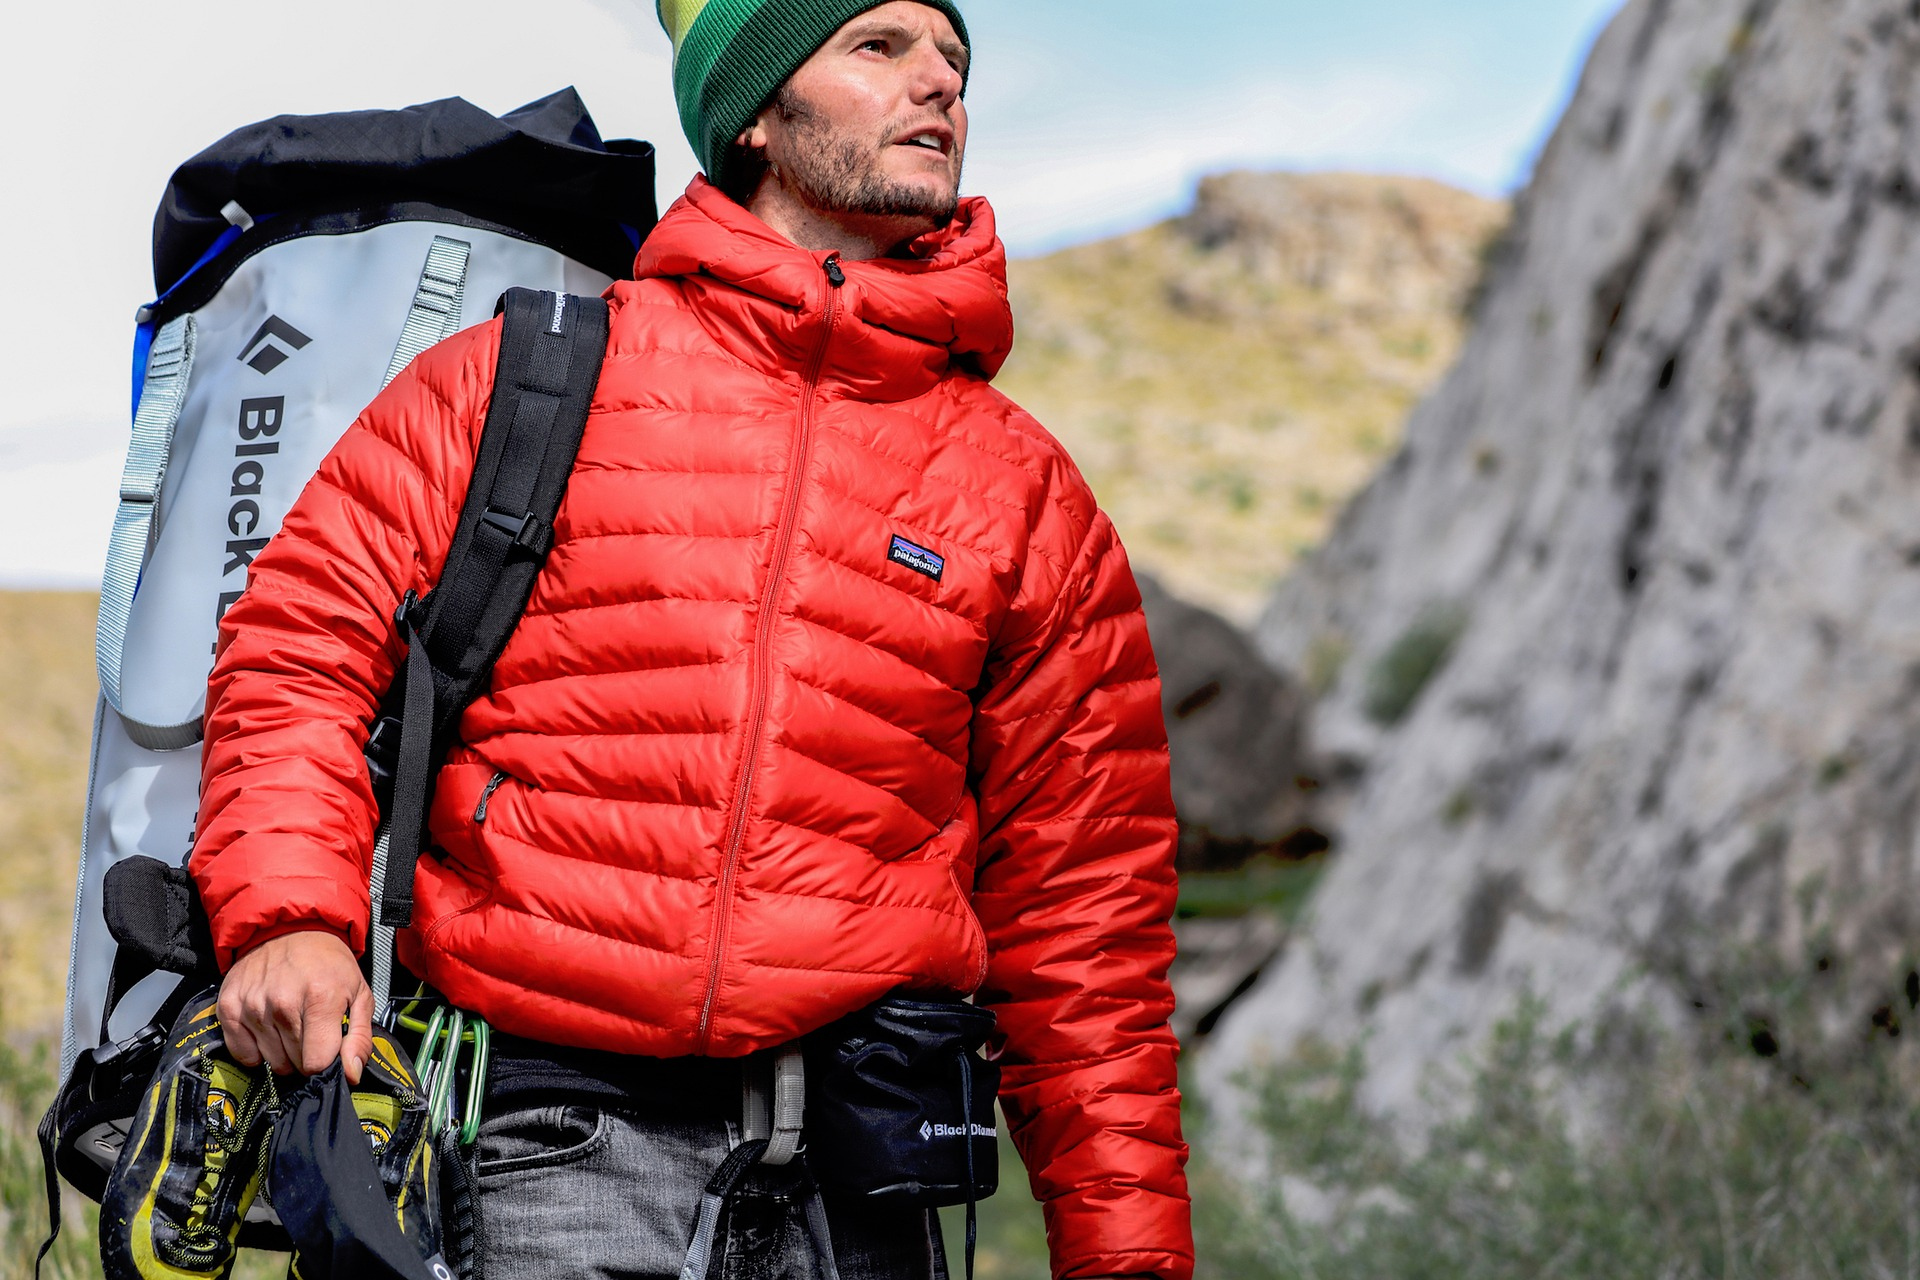
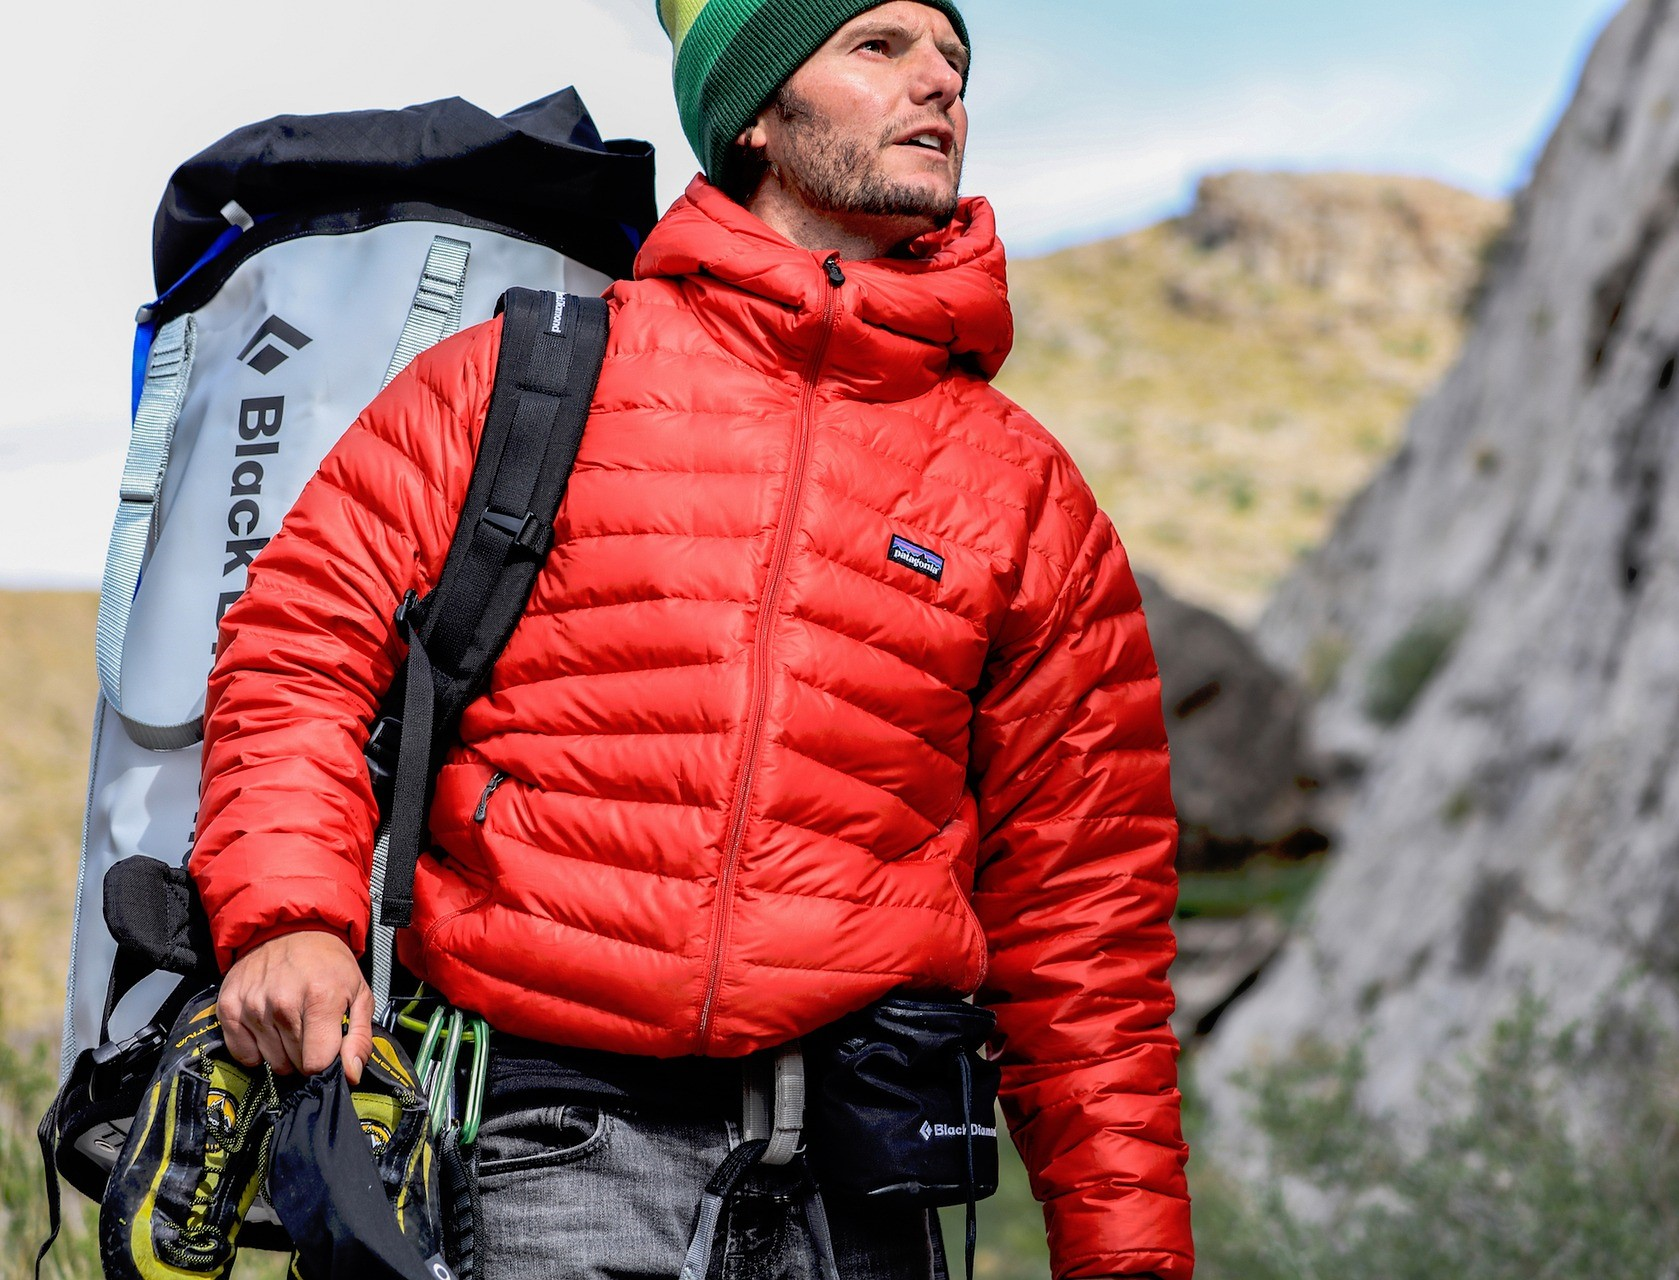
Added style to header and main body
Added style to header and main body

diff --git a/index.html b/index.html
@@ -11,47 +11,59 @@
     <body>
         <header>
             <section class="header-section">
-                <img src="images/RainyDays_Logo.png" alt="rainydays logo" class="logo">
-                <div class="login-wish-cart">
-                    <p>Login</p>
-                    <img src="icons/wish-list.svg" alt="wish list">
-                    <img src="icons/shopping-cart.svg" alt="shopping cart">
+                <div class="logo-container">
+                    <img src="images/RainyDays_Logo.png" alt="rainydays logo" class="logo">
                 </div>
-                <nav class="main-menu">
-                    <ul>
-                        <li><a href="index.html" class="active">Home</a></li>
-                        <li><a href="womens.html">Womens</a></li>
-                        <li><a href="mens.html">Mens</a></li>
-                        <li><a href="new-arrivals.html">New Arrivals</a></li>
-                    </ul>
-                </nav>
-                <div class="search">
-                    <img src="icons/search.svg" alt="search-icon">
-                    <p class="search-area">Search for a product</p>
+                <div class="login-container">
+                    <div class="login-wish-cart">
+                        <p>Login</p>
+                        <img src="icons/wish-list.svg" alt="wish list">
+                        <img src="icons/shopping-cart.svg" alt="shopping cart">
+                    </div>
                 </div>
-                <nav class="about-contact">
-                    <ul>
-                        <li><a href="about.html">About RAINYDAYS</a></li>
-                        <li><a href="contact-us.html">Contact Us</a></li>
-                    </ul>
-                </nav>
+                <div class="menu-about-container">
+                    <nav class="main-menu">
+                        <ul>
+                            <li><a href="index.html" class="active">Home</a></li>
+                            <li><a href="womens.html">Womens</a></li>
+                            <li><a href="mens.html">Mens</a></li>
+                            <li><a href="new-arrivals.html">New Arrivals</a></li>
+                        </ul>
+                    </nav>
+                    <div class="search">
+                        <img src="icons/search.svg" alt="search-icon">
+                        <p class="search-area">Search for a product</p>
+                    </div>
+                    <nav class="about-contact">
+                        <ul>
+                            <li><a href="about.html">About RAINYDAYS</a></li>
+                            <li><a href="contact-us.html">Contact Us</a></li>
+                        </ul>
+                    </nav>
                 <!-- <div class="free-shipping">
                     <p class="free-shipping-text">Free Shipping All Over The World</p>
                     <img src="icons/delivery-truck.svg" alt="delivery truck" class="delivery-truck">
                 </div> -->
+                </div>
             </section>
         </header>
 
-        <main>
-            <img src="images/man_red-jacket_big-image.jpg" alt="red hiking puffer jacket" class="landing-image">
-            <a>Order Now</a>
-            <ul>
-                <li>High Quality</li>
-                <li>Light Weight</li>
-                <li>Breathable</li>
-                <li>Dynamic</li>
-            </ul>
-            <a>Order now and Get 10% Cashback</a>
+        <main class="main-body">
+            <section class="main-body-section">
+                <div>
+                    <img src="images/man_red-jacket_2x.png" alt="red hiking puffer jacket" class="landing-image">
+                    <a href="mens.html" class="landing-cta">Order Now</a>
+                </div>
+                <div>
+                    <ul class="selling-point">
+                        <li>High Quality</li>
+                        <li>Light Weight</li>
+                        <li>Breathable</li>
+                        <li>Dynamic</li>
+                    </ul>
+                    <a href="mens.html" class="link-cta">Order now and Get 10% Cashback</a>
+                </div>
+            </section>
         </main>
 
         <footer>

diff --git a/styles/styles.css b/styles/styles.css
@@ -8,6 +8,9 @@ COLOURS
 #026259 DARK-GREEN
 #707070 DARK-GREY
 #5FB002 GREEN
+#FFFFFF WHITE BACKGROUND
+#2AAF4D HOME CTA BACKGROUND
+#8FC7B8 LANDING IMAGE FILL COLOR
  */
 
 html {
@@ -25,27 +28,39 @@ body {
 /* ------------------------ HEADER STYLES -------------------- */
 
 .header-section {
-  max-width: 1610px;
-  border: black solid;
-  margin: 25px auto;
+  max-width: 1700px;
+  min-width: 1250px;
+  /* position: fixed; */
+  top: 0px;
+  /* border: black solid; */
+  margin: 0 auto 25px;
+}
+
+.header-section::after {
+  content: none;
+  display: table;
 }
 
 .logo {
-  margin: auto;
   max-width: 160px;
-  display: block;
+  /* display: block; */
+}
+
+.logo-container {
+  display: flex;
+  justify-content: center;
+  margin: 0 auto 5px;
 }
 
 /* ----------------- LOGIN WISH-LIST CART STYLES -------------- */
 
 .login-wish-cart {
-  border: orangered thin solid;
+  /* border: orangered thin solid; */
   display: flex;
   justify-content: center;
   align-items: center;
   gap: 25px;
   max-width: fit-content;
-  /* padding: 0 17px; */
 }
 
 .login-wish-cart p {
@@ -58,9 +73,10 @@ body {
   padding: 3px 26px;
 }
 
-.login-wish-cart img {
-  /* max-width: 33px; */
-  /* color: #013440; */
+.login-container {
+  display: flex;
+  justify-content: right;
+  margin-right: 35px;
 }
 
 /* -------------------  NAVIGATION MENU STYLES ---------------- */
@@ -108,6 +124,16 @@ body {
   font-size: 0.9em;
 }
 
+/* -----------------  MAIN MENU - SEARCH - ABOUT STYLES  ---------------- */
+
+.menu-about-container {
+  display: flex;
+  margin: 10px auto 0;
+  align-items: center;
+  justify-content: space-between;
+  flex-wrap: wrap;
+}
+
 /* -------------------  FREE SHIPPING AREA STYLES ---------------- */
 /* 
 .free-shipping {
@@ -121,3 +147,57 @@ body {
   font-style: italic;
   font-size: 0.9em;
 } */
+
+/* -------------------------  MAIN BODY STYLES --------------------- */
+
+.main-body {
+  max-width: 1344px;
+  margin: 0 auto;
+  padding: 20px 0;
+  position: relative;
+}
+
+.main-body-section {
+  border: #8fb7c7 thin solid;
+  display: flex;
+  flex-wrap: wrap;
+  align-items: center;
+}
+.landing-image {
+  max-height: 615px;
+  background-color: #8fc7b8;
+}
+
+.landing-cta {
+  color: #ffffff;
+  text-decoration: none;
+  font-size: 2.1em;
+  font-weight: bold;
+  border: #2aaf4d thin solid;
+  padding: 10px 50px;
+  background-color: #2aaf4d;
+  border-radius: 15px;
+  position: absolute;
+  left: 442px;
+  top: 390px;
+}
+
+.selling-point li {
+  color: #013440;
+  opacity: 0.8;
+  font-size: 2em;
+  /* font-style: italic; */
+  /* list-style-type: none; */
+  /* border-left: orangered thick solid; */
+  padding: 10px;
+}
+
+/* START HERE */
+
+.link-cta {
+  color: #013440;
+  font-size: 1.5em;
+  display: flex;
+  flex-wrap: wrap;
+  justify-content: center;
+}
